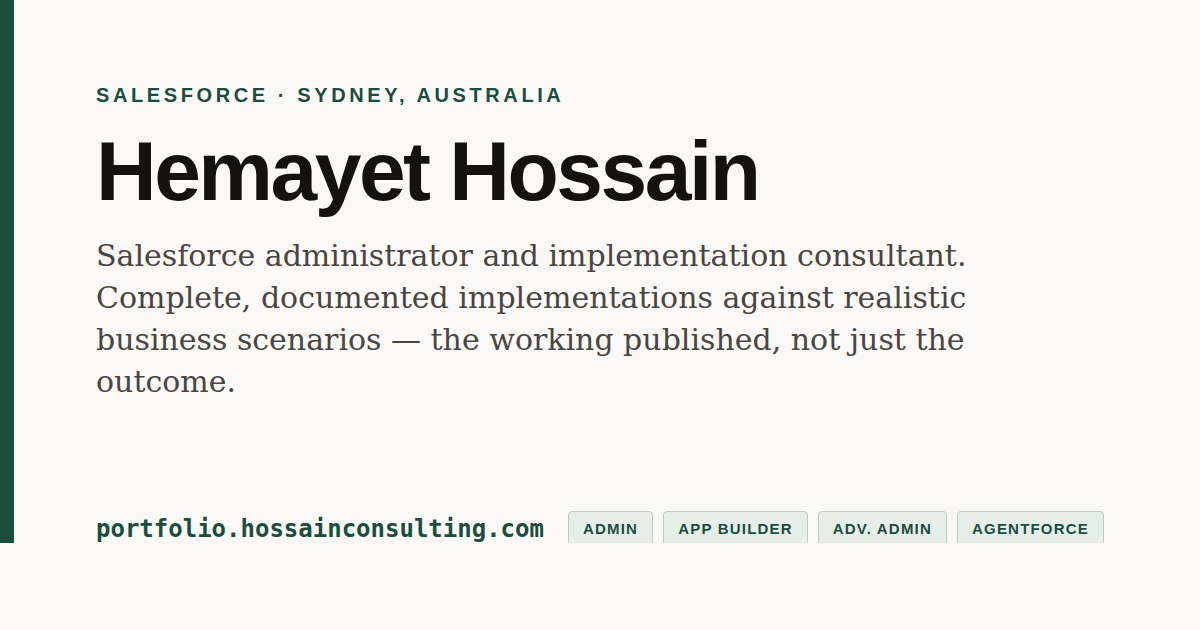
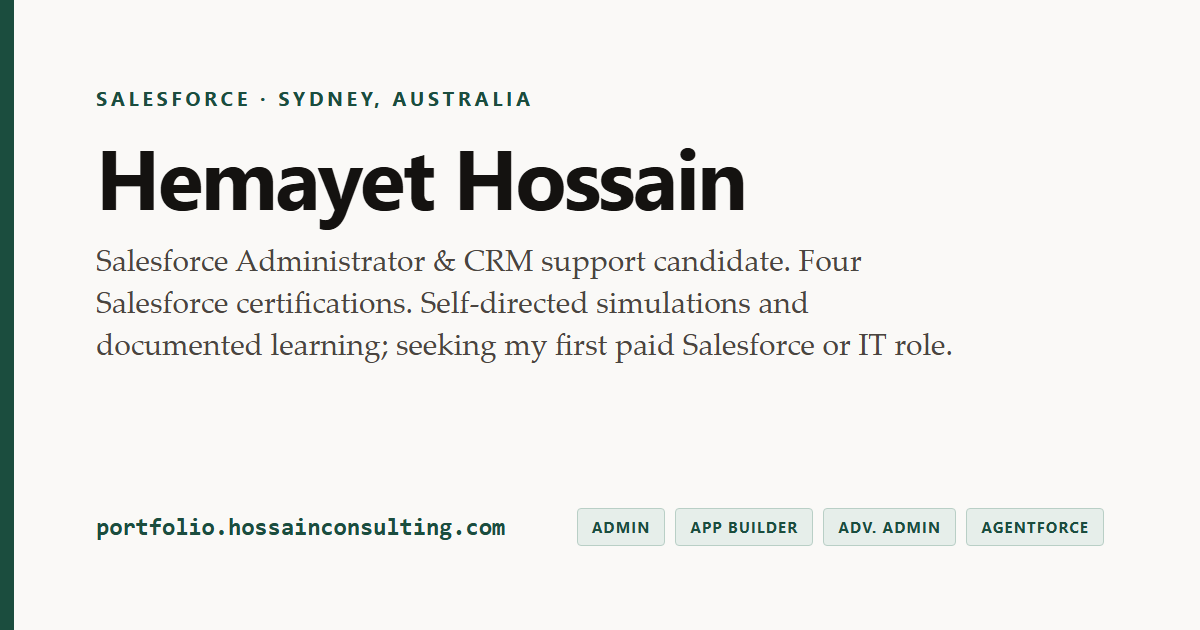
Align portfolio candidate identity and evidence request paths

diff --git a/public/index.html b/public/index.html
@@ -3,8 +3,8 @@
 <head>
 <meta charset="utf-8">
 <meta name="viewport" content="width=device-width, initial-scale=1">
-<title>Hemayet Hossain — Salesforce + AI Solutions Engineer</title>
-<meta name="description" content="Hemayet Hossain — Salesforce + AI Solutions Engineer in Sydney, Australia. Explore self-directed simulations across Salesforce, AI, automation and integrations.">
+<title>Hemayet Hossain — Salesforce Administrator &amp; CRM Support Candidate</title>
+<meta name="description" content="Hemayet Hossain — Salesforce Administrator and CRM support candidate in Sydney. Four Salesforce certifications, self-directed simulations and a longer-term interest in forward deployed engineering.">
 <link rel="canonical" href="https://portfolio.hossainconsulting.com/">
 <link rel="sitemap" type="application/xml" href="/sitemap.xml">
 <link rel="me" href="https://github.com/hossainconsulting">
@@ -15,15 +15,15 @@
 <meta property="og:type" content="website">
 <meta property="og:locale" content="en_AU">
 <meta property="og:site_name" content="Hemayet Hossain">
-<meta property="og:title" content="Hemayet Hossain — Salesforce + AI Solutions Engineer">
+<meta property="og:title" content="Hemayet Hossain — Salesforce Administrator &amp; CRM Support Candidate">
 <meta property="og:description" content="Self-directed Salesforce, AI, automation and integration projects in Sydney, Australia. Project status and dated evidence distinguish completed work from planned work.">
 <meta property="og:url" content="https://portfolio.hossainconsulting.com/">
 <meta property="og:image" content="https://portfolio.hossainconsulting.com/og.png">
 <meta property="og:image:width" content="1200">
 <meta property="og:image:height" content="630">
-<meta property="og:image:alt" content="Hemayet Hossain — Salesforce administrator and implementation consultant, Sydney">
+<meta property="og:image:alt" content="Hemayet Hossain — self-directed Salesforce portfolio, Sydney">
 <meta name="twitter:card" content="summary_large_image">
-<meta name="twitter:title" content="Hemayet Hossain — Salesforce + AI Solutions Engineer">
+<meta name="twitter:title" content="Hemayet Hossain — Salesforce Administrator &amp; CRM Support Candidate">
 <meta name="twitter:description" content="Self-directed Salesforce, AI, automation and integration projects in Sydney, Australia. Project status and dated evidence distinguish completed work from planned work.">
 <meta name="twitter:image" content="https://portfolio.hossainconsulting.com/og.png">
 <!-- Add once the X handle is claimed (presence/profiles.md):
@@ -45,8 +45,7 @@
       "name": "Hemayet Hossain",
       "url": "https://portfolio.hossainconsulting.com/",
       "image": "https://portfolio.hossainconsulting.com/og.png",
-      "jobTitle": "Salesforce + AI Solutions Engineer",
-      "description": "Builds self-directed simulations across Salesforce, AI, automation and integrations; see dated project evidence and status.",
+      "description": "Salesforce Administrator and CRM support candidate seeking a first paid Salesforce or IT role. Four Salesforce certifications and self-directed simulations; forward deployed engineering is a longer-term goal.",
       "address": {
         "@type": "PostalAddress",
         "addressLocality": "Sydney",
@@ -78,12 +77,8 @@
       "name": "Hossain Consulting",
       "url": "https://hossainconsulting.com/",
       "founder": { "@id": "https://portfolio.hossainconsulting.com/#person" },
-      "description": "Salesforce implementation and AI tooling for trades and service businesses, documented end to end.",
-      "areaServed": [
-        { "@type": "City", "name": "Sydney" },
-        { "@type": "State", "name": "New South Wales" },
-        { "@type": "Country", "name": "Australia" }
-      ],
+      "description": "Developing CRM and automation practice for trade and home-service businesses in New South Wales. Preparing to launch paid services; current portfolio work is simulated.",
+      "areaServed": { "@type": "State", "name": "New South Wales" },
       "address": {
         "@type": "PostalAddress",
         "addressLocality": "Crows Nest",
@@ -100,7 +95,7 @@
       "@type": "WebSite",
       "@id": "https://portfolio.hossainconsulting.com/#website",
       "url": "https://portfolio.hossainconsulting.com/",
-      "name": "Hemayet Hossain — Salesforce + AI Solutions Engineer",
+      "name": "Hemayet Hossain — Salesforce Administrator and CRM Support Candidate",
       "inLanguage": "en-AU",
       "author": { "@id": "https://portfolio.hossainconsulting.com/#person" }
     }
@@ -262,6 +257,7 @@
   }
 
   /* --- CONCIERGE widget ------------------------------------------------- */
+  #cx-panel[hidden] { display: none; }
   #cx-launcher {
     position: fixed; right: 20px; bottom: 20px; z-index: 20;
     font-family: var(--struc); font-size: .86rem; font-weight: 600;
@@ -340,9 +336,10 @@
     <div class="eyebrow">Salesforce + AI · Sydney, Australia</div>
     <h1>Hemayet Hossain</h1>
     <p class="sub">
-      Salesforce + AI Solutions Engineer, building toward Forward Deployed
-      Engineering. I turn complex business problems into connected,
-      intelligent solutions through Salesforce, automation, APIs and software.
+      Salesforce Administrator and CRM support candidate in Sydney, seeking my
+      first paid Salesforce or IT role. I practise through self-directed
+      simulations and am building toward forward deployed engineering as a
+      longer-term goal.
     </p>
     <div class="links">
       <a href="https://github.com/hossainconsulting" rel="me">GitHub</a>
@@ -396,20 +393,23 @@
   <div class="grid">
     <div class="tile">
       <span class="lbl">What I'm open to</span>
-      <p>Permanent or contract Salesforce Administrator, Advanced Administrator and
-      implementation consultant roles. Agency placements. A fractional administrator
-      on a part-week retainer, and fixed-scope org health checks.</p>
+      <p>Salesforce Administrator and CRM support employment or suitable contract
+      opportunities, including agency placements. Forward deployed engineering
+      is my longer-term direction. Business service enquiries go through
+      <a href="https://hossainconsulting.com/services">Hossain Consulting</a>,
+      which is preparing to launch paid services.</p>
     </div>
     <div class="tile">
       <span class="lbl">Verify me in ten minutes</span>
-      <p>Open any repository's <em>build log</em>: every change is dated and traced
-      to a requirement. Read one SOP or design document. Use the public Salesforce credential record linked below to verify the four credentials.</p>
+      <p>Start with the public <a href="https://github.com/hossainconsulting/salesforce-user-lifecycle-sop">User Lifecycle SOP</a>
+      and the Salesforce credential record linked below. SunRise project evidence
+      is private; email me to request a walkthrough or a suitable evidence extract.</p>
     </div>
     <div class="tile">
-      <span class="lbl">What you get on an engagement</span>
-      <p>The same conventions you see here: a dated build log, before-and-after
-      evidence, SOPs the next admin can follow, and accepted risks written down
-      rather than hidden.</p>
+      <span class="lbl">How I document practice</span>
+      <p>I use dated records, evidence where available, handover notes and
+      explicit unresolved decisions. These are learning conventions, not a
+      claim of completed client delivery.</p>
     </div>
     <div class="tile">
       <span class="lbl">Straight answer on experience</span>
@@ -420,7 +420,7 @@
   </div>
 
   <p class="cta">
-    <a href="mailto:hemayet@hossainconsulting.com">hemayet@hossainconsulting.com</a> ·
+    <a href="mailto:hemayet@hemayethossain.com">hemayet@hemayethossain.com</a> ·
     <a href="https://www.linkedin.com/in/hemayethossain/">Personal LinkedIn</a> ·
     Email is the contact fallback; the assistant source still requires live configuration and verification.
   </p>
@@ -428,12 +428,12 @@
 
 <section id="evidence">
   <h2>Where each skill is applied</h2>
-  <p class="tally">Open the source evidence and its dated status. These links do not establish current org state or a deployed service.</p>
+  <p class="tally">Review the public evidence and dated status below. Private evidence is available for discussion on request. These examples do not establish current org state or a deployed service.</p>
   <div style="overflow-x:auto">
   <table>
     <thead><tr><th>Capability</th><th>Evidence to open</th><th>Status boundary</th></tr></thead>
     <tbody>
-      <tr><td>Salesforce administration</td><td><a href="https://github.com/hossainconsulting/salesforce-sunrise-solar">SunRise repository</a></td><td>Recorded progress and carry-forward work; see the dated project summary below.</td></tr>
+      <tr><td>Salesforce administration</td><td><a href="#sunrise">SunRise status and evidence requests</a></td><td>Private project evidence; historical progress and limitations are described below.</td></tr>
       <tr><td>Agent design</td><td><a href="/service-agent-patterns">Service-agent pattern library</a></td><td>Written analysis; implementation and compliance decisions remain separate.</td></tr>
       <tr><td>Claude API and tool use</td><td><a href="https://github.com/hossainconsulting/portfolio/blob/main/src/index.js">Worker source</a></td><td>Source present; live model, lead delivery and launch controls require verification.</td></tr>
       <tr><td>Linux and Ansible</td><td><a href="https://github.com/hossainconsulting/portfolio/tree/main/learning/ansible-linux">Curriculum and starter playbooks</a></td><td>Planned learning track; all twelve modules marked Not started.</td></tr>
@@ -445,7 +445,7 @@
 <section>
   <h2>Projects</h2>
 
-  <div class="proj">
+  <div class="proj" id="sunrise">
     <div class="proj-hd">
       <h3>SunRise Solar Solutions</h3>
       <span class="status wip">In progress</span>
@@ -459,17 +459,18 @@
       explanation anyone can produce.
     </p>
     <p>
-      <strong>Recorded progress, 7 September 2026:</strong> Week 4 opened.
+      <strong>Historical record, 7 September 2026:</strong> Week 4 opened.
       Earlier records include duplicate-pair assessments, a partial Contact
       merge and interim custodianship of 666 Opportunities. Held merge
       decisions, access dependencies and other carry-forward work remain.
-      These are documented simulation outcomes, not a live org verification.
+      This is a dated historical summary, not the latest project status or a live
+      org verification. Current evidence is maintained in the private
+      salesforce-sunrise-solar repository. Request a walkthrough to discuss
+      completed work, open decisions and subsequent changes.
     </p>
     <div class="foot">
-      <span>12-week scope · Week 4 opened</span>
-      <a href="https://github.com/hossainconsulting/salesforce-sunrise-solar">repository →</a>
-      <a href="https://github.com/hossainconsulting/salesforce-sunrise-solar/blob/main/docs/evidence-review.md">Current evidence and open work →</a>
-      <a href="https://github.com/hossainconsulting/salesforce-sunrise-solar/blob/main/deliverables/carry-forward-tickets.md">decisions and outstanding work →</a>
+      <span>12-week planned scope · Private simulation evidence</span>
+      <a href="mailto:hemayet@hemayethossain.com?subject=SunRise%20evidence%20walkthrough">Request current evidence &amp; a walkthrough →</a>
     </div>
   </div>
 
@@ -807,7 +808,9 @@
     <a href="https://www.reddit.com/user/hossainconsulting/" rel="me">Reddit (agency)</a> ·
     <a href="https://www.reddit.com/user/hemayetAI/" rel="me">Reddit (personal)</a> ·
     <a href="/links">all links</a> ·
-    <a href="mailto:hemayet@hossainconsulting.com">hemayet@hossainconsulting.com</a><br>
+    <a href="mailto:hemayet@hemayethossain.com">Recruitment enquiries</a> ·
+    <a href="https://hossainconsulting.com">Agency enquiries</a> ·
+    <a href="/privacy">Privacy</a> · <a href="/terms">Terms</a><br>
     Salesforce and related marks are property of Salesforce, Inc.
   </div>
 </footer>

diff --git a/public/links.html b/public/links.html
@@ -15,7 +15,7 @@
 <meta property="og:image" content="https://portfolio.hossainconsulting.com/og.png">
 <meta property="og:image:width" content="1200">
 <meta property="og:image:height" content="630">
-<meta property="og:image:alt" content="Hemayet Hossain — Salesforce + AI Solutions Engineering, Sydney">
+<meta property="og:image:alt" content="Hemayet Hossain — self-directed Salesforce portfolio, Sydney">
 <meta name="twitter:card" content="summary_large_image">
 <meta name="twitter:title" content="Hemayet Hossain — Links">
 <meta name="twitter:description" content="Websites, project evidence, and personal and agency profiles in one place.">
@@ -91,7 +91,7 @@
 <main class="wrap">
   <div class="eyebrow">Salesforce + AI · Sydney, Australia</div>
   <h1>Hemayet Hossain</h1>
-  <p class="sub">Salesforce + AI Solutions Engineering; building toward Forward Deployed Engineering. Explore self-directed projects, dated evidence and professional profiles.</p>
+  <p class="sub">Salesforce Administrator and CRM support candidate in Sydney, seeking my first paid Salesforce or IT role. Forward deployed engineering is a longer-term goal. Explore self-directed projects, dated evidence and professional profiles.</p>
 
   <nav aria-label="Links on this page">
     <a href="#websites">Websites and evidence</a> · <a href="#personal">Personal profiles</a> · <a href="#agency">Agency profiles</a> · <a href="#projects">Projects</a>
@@ -133,11 +133,11 @@
   </ul>
 
   <h2 id="projects">Project repositories</h2>
-  <p>Open each repository for its current status and dated evidence. Planned scope is not completed delivery.</p>
+  <p>Open the public repositories for dated evidence. SunRise evidence is private and available for discussion on request. Planned scope is not completed delivery.</p>
   <ul>
     <li><a class="btn" href="https://github.com/hossainconsulting/agentforce-meridian-care">Meridian Appliance Care <small>Agentforce Specialist</small></a></li>
     <li><a class="btn" href="https://github.com/hossainconsulting/home-services-ai">Home Services AI <small>Claude · MCP · evals</small></a></li>
-    <li><a class="btn" href="https://github.com/hossainconsulting/salesforce-sunrise-solar">SunRise Solar Solutions <small>Administrator</small></a></li>
+    <li><a class="btn" href="/#sunrise">SunRise Solar Solutions <small>status &amp; evidence requests</small></a></li>
     <li><a class="btn" href="https://github.com/hossainconsulting/meridian-field-services">Meridian Field Services <small>Platform App Builder</small></a></li>
     <li><a class="btn" href="https://github.com/hossainconsulting/tradelink-group">TradeLink Group <small>Advanced Admin · Sales · Service</small></a></li>
     <li><a class="btn" href="https://github.com/hossainconsulting/coastline-retail-group">Coastline Retail Group <small>Data Cloud</small></a></li>

diff --git a/public/terms.html b/public/terms.html
@@ -11,7 +11,7 @@
 <body>
 <nav class="bar"><div class="wrap"><a href="/">Hossain Consulting</a><span></span></div></nav>
 <main class="wrap legal">
-<header class="hero"><div class="eyebrow">Version 2026-10-15</div><h1>Terms and Acceptance</h1>
+<header class="hero"><div class="eyebrow">Version 2026-10-16</div><h1>Terms and Acceptance</h1>
 <p class="sub">These cover this website, the free checklist, call bookings and my emails. Paid work is covered by a separate written scope and quote.</p></header>
 
 <h2>1. Acceptance</h2>
@@ -27,7 +27,7 @@
 <p>Calls are free. Please reschedule or cancel through the link in your confirmation email if you cannot make it. I may reschedule if something unavoidable comes up. Do not share passwords, payment details or customer records on a call or in a form.</p>
 
 <h2>5. Paid work</h2>
-<p>I start paid work only after you approve a written scope and fixed quote including GST. Nothing on this site or in an email is an offer capable of acceptance until then. Prices shown on hossainconsulting.com are for a defined package; the written quote confirms what applies to you.</p>
+<p>Hossain Consulting is preparing to launch paid services. Payment processing and service terms are still being finalised, with legal review outstanding. A free introductory call or enquiry is not a paid service booking. Paid service availability and finalised written terms will be confirmed before any paid work is accepted. Prices shown on hossainconsulting.com describe a proposed package; the agreed written scope and total quote including GST will confirm what applies.</p>
 <p>Third-party tools, such as a CRM, email platform, ad account, domain or hosting, belong to you. You subscribe to them directly with your own card, in your own name, and pay each provider yourself. I do not pay for, resell or hold your card details, and I will never ask for your card numbers or passwords. You pay me only my own fees, through a payment provider.</p>
 
 <h2>6. Honest description of my experience</h2>

diff --git a/presence/assets/og.html b/presence/assets/og.html
@@ -45,7 +45,7 @@
     <div>
       <div class="eyebrow">Salesforce · Sydney, Australia</div>
       <h1>Hemayet Hossain</h1>
-      <p class="sub">Salesforce administrator and implementation consultant. Complete, documented implementations against realistic business scenarios — the working published, not just the outcome.</p>
+      <p class="sub">Salesforce Administrator &amp; CRM support candidate. Four Salesforce certifications. Self-directed simulations and documented learning; seeking my first paid Salesforce or IT role.</p>
     </div>
     <div class="foot">
       <div class="url">portfolio.hossainconsulting.com</div>

diff --git a/evidence/2026-10-16/website-conflicts/README.md b/evidence/2026-10-16/website-conflicts/README.md
@@ -1,0 +1,31 @@
+# Prepare portfolio consistency fixes
+
+Date: 16 October 2026, Australia/Sydney.
+Target: portfolio.hossainconsulting.com, static assets served by the existing Cloudflare Worker.
+Starting main: 91739c50b29e9570a18325edb60413bd591e7eda. Branch: codex/website-conflicts-20261016.
+
+Hemayet requested fixes prepared for review and confirmed Claude was idle. Claude's public PR #31 handover confirms it has finished editing both website repositories. Existing checkouts and other branches were preserved. No merge, production deployment, account change or message was performed.
+
+## Changes
+
+- Align the homepage, link hub, page/share metadata and preview card with Salesforce Administrator/CRM support candidate positioning and a longer-term FDE goal. Remove the unsupported current Solutions Engineer jobTitle from structured data. Agency structured data now describes the developing practice, preparation for launch and NSW-only scope, matching the agency site.
+- Recruitment contact on the portfolio now uses the personal branded email. Agency enquiries remain directed to the agency website. No mailbox configuration changed.
+- Replace direct private SunRise repository/evidence anchors in the homepage and link hub with a stable `#sunrise` status section and personal-email evidence request. Keep the canonical current repository name in explanatory text without an inaccessible public link. Preserve the 7 September progress record as explicitly historical; do not invent an updated implementation result.
+- Add existing portfolio privacy/terms pages to the homepage footer and align the portfolio terms' paid-service paragraph with the agency's prelaunch/payment/legal-review gate. The notice files and canonical SunRise source already existed on current main but were absent from the older live site during the audit; this patch does not recreate them or change routing.
+- Regenerate `public/og.png` from the edited `presence/assets/og.html` using isolated headless Edge at 1200x630. Visually reviewed: candidate copy fits and the four credential badges remain.
+- Correct `#cx-panel[hidden]` styling. Browser checks demonstrated that existing `display:flex` overrode the hidden state and covered page content before a visitor opened the assistant. The explicit hidden rule restores the existing open/close behaviour; no chat/backend configuration or model calls changed.
+
+## Actual validation
+
+- Locked dependencies installed with `npm ci --ignore-scripts --no-audit --no-fund`. Initial certificate-chain error resolved by retrying with `NODE_OPTIONS=--use-system-ca` (Windows trust store); verification was not disabled. Lockfile unchanged.
+- `npm run check`: JavaScript syntax checks passed. Prompt-sync explicitly skipped because its private sibling specification is unavailable; not a validated prompt-sync result.
+- Ran Wrangler locally on port 8793, without model/webhook secrets. Static `/`, `/links`, `/privacy`, `/terms` all returned 200; unknown route returned 404. Existing notice clean URLs work locally without a route change. Results: `local-routes.json`. Wrangler emitted a certificate warning fetching optional Request.cf metadata and used a placeholder; local static responses worked.
+- Parsed changed HTML and JSON-LD; checked canonical candidate wording, absence of private SunRise anchors, personal contact, historical-date wording, notice anchors and prelaunch terms. Results: `content-checks.json`.
+- Playwright with isolated headless Edge at 390x844 and 1280x844: document width equals viewport, hidden panel computes to `display:none`, open/close works without submitting messages. Screenshots: `portfolio-390.png`, `portfolio-1280.png`; results: `browser-checks.json`. Reproduction helper: `verify-browser.cjs` (requires Playwright installed externally or provided through PLAYWRIGHT_MODULE; no added runtime dependency).
+- `git diff --check`: passed. Diff/evidence/screenshots reviewed for secrets, private notes, customer data and unrelated content before staging.
+
+## Review/release boundaries
+
+Companion changes are in `hossainconsulting/hossainconsulting-portfolio`, branch `codex/website-conflicts-20261016`. Review and release together because the personal site will use the new SunRise fragment. The current main already contains other unpublished work; a later release must review that full release difference, including existing legal/collection/assistant source, rather than assume this copy-only patch approves all of it.
+
+Live production still serves older content until an approved deployment. Notice publication, email delivery, booking completion, model calls, lead delivery, sign-ups, payments and professional legal review were not verified or activated. The separate shared booking account may still contain old summary wording noted in the existing funnel README; no account setting change is authorised by this source patch. A separate catalogue advisory product mentioned in the handover remains Hemayet's decision and was not changed.
